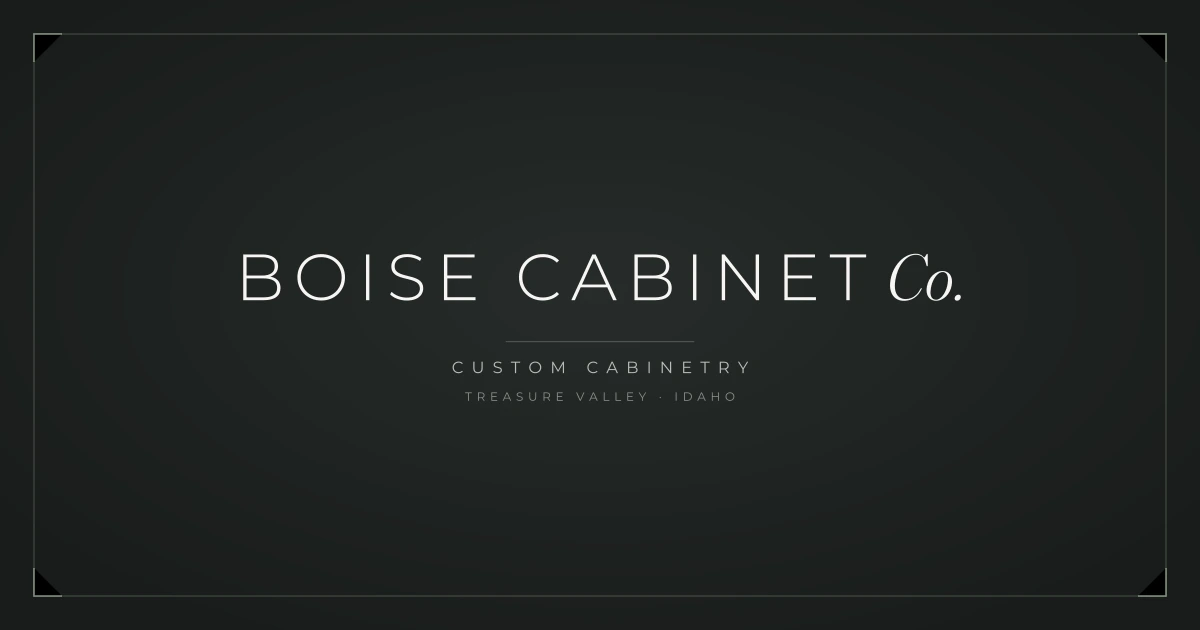
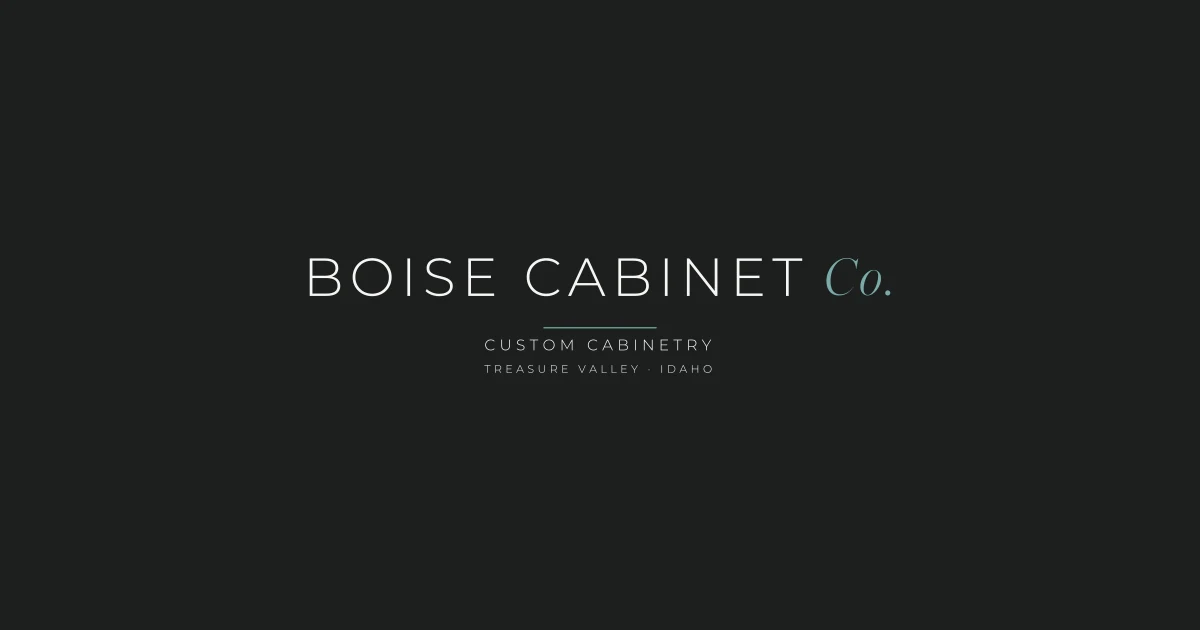
brand: point nav, footer, 404, and about at new wordmark/seal assets; refresh og-default.webp

diff --git a/components/Footer.tsx b/components/Footer.tsx
@@ -21,11 +21,11 @@ export function Footer() {
             <Link href="/" className="mb-6 inline-block" aria-label="Boise Cabinet Co - home">
               {/* eslint-disable-next-line @next/next/no-img-element */}
               <img
-                src="/brand/boise-cabinet-co-logo-primary-reverse.svg"
+                src="/brand/svg/wordmark-full/dark/boise-cabinet-co-wordmark-full-bone-accent.svg"
                 alt="Boise Cabinet Co - Custom Cabinetry, Treasure Valley, Idaho"
                 width={236}
-                height={80}
-                className="h-16 w-auto"
+                height={110}
+                className="h-24 w-auto"
               />
             </Link>
             <div className="space-y-2">
@@ -262,7 +262,7 @@ export function Footer() {
           <div className="flex flex-wrap items-center gap-4">
             {/* eslint-disable-next-line @next/next/no-img-element */}
             <img
-              src="/brand/boise-cabinet-co-seal-dark.svg"
+              src="/brand/svg/seal/dark/boise-cabinet-co-seal-bone-accent.svg"
               alt="Boise Cabinet Co seal"
               width={36}
               height={36}

diff --git a/components/Navigation.tsx b/components/Navigation.tsx
@@ -23,9 +23,9 @@ import { useAuth } from "@/hooks/useAuth";
 function Logo() {
   return (
     <Link href="/" className="flex items-center leading-none" aria-label="Boise Cabinet Co - home">
-      {/* Reverse (white) wordmark for the dark ground. eslint-disable-next-line @next/next/no-img-element */}
+      {/* Bone (reverse) wordmark for the dark ground. eslint-disable-next-line @next/next/no-img-element */}
       <img
-        src="/brand/boise-cabinet-co-wordmark-reverse.svg"
+        src="/brand/svg/wordmark/dark/boise-cabinet-co-wordmark-bone.svg"
         alt="Boise Cabinet Co"
         width={190}
         height={28}

diff --git a/app/about/page.tsx b/app/about/page.tsx
@@ -232,7 +232,7 @@ export default function AboutPage() {
               <Reveal>
                 {/* eslint-disable-next-line @next/next/no-img-element */}
                 <img
-                  src="/brand/boise-cabinet-co-seal-dark.svg"
+                  src="/brand/svg/seal/dark/boise-cabinet-co-seal-bone-accent.svg"
                   alt="Boise Cabinet Co seal"
                   width={64}
                   height={64}

diff --git a/app/not-found.tsx b/app/not-found.tsx
@@ -22,7 +22,7 @@ export default function NotFound() {
         <div className="mb-8">
           {/* eslint-disable-next-line @next/next/no-img-element */}
           <img
-            src="/brand/boise-cabinet-co-seal-dark.svg"
+            src="/brand/svg/seal/dark/boise-cabinet-co-seal-bone-accent.svg"
             alt="Boise Cabinet Co seal"
             width={88}
             height={88}
